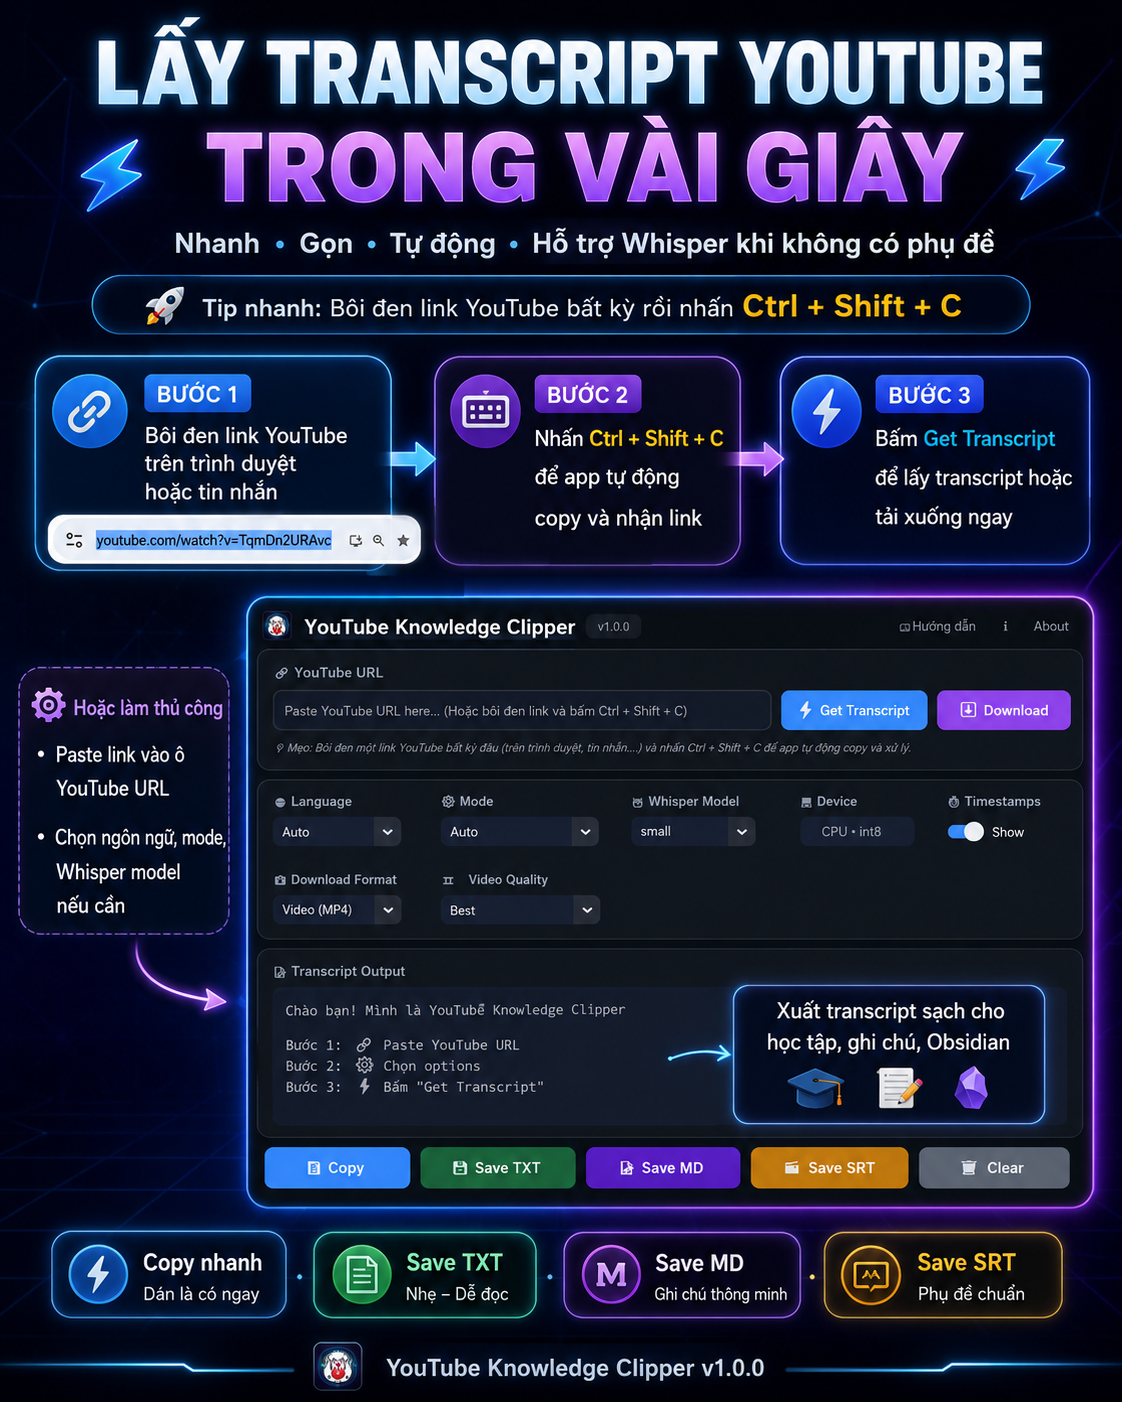
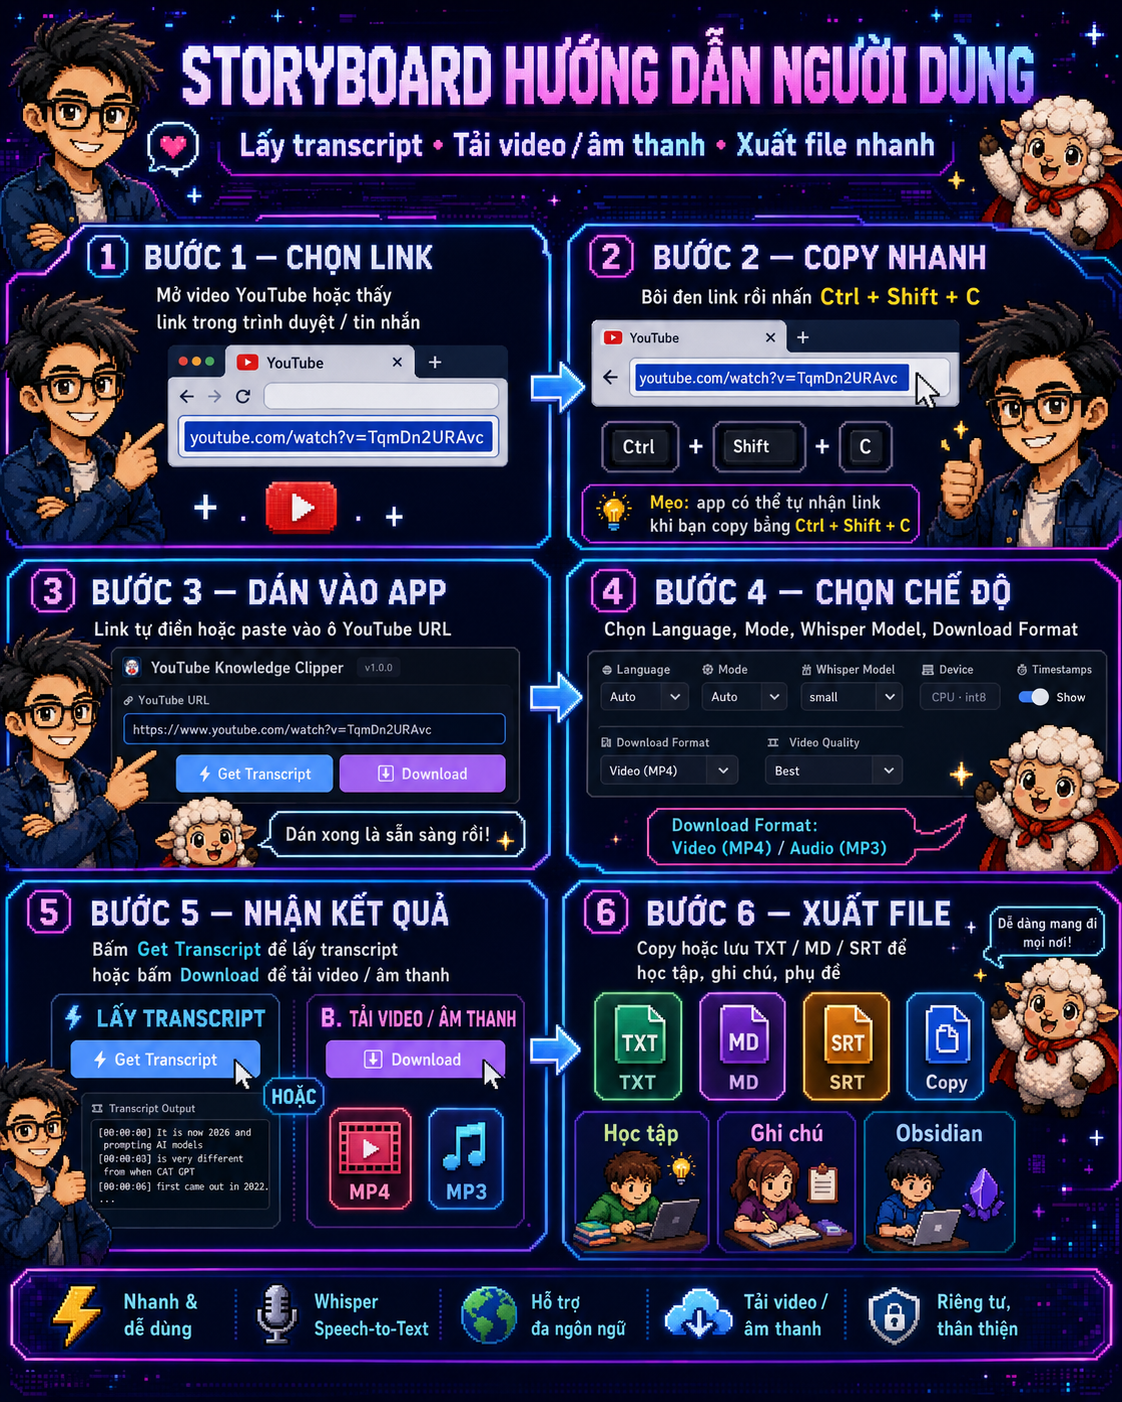
Add zoomable help image viewer

diff --git a/app.py b/app.py
@@ -677,20 +677,21 @@ class YouTubeKnowledgeClipperApp(ctk.CTk):
         close_btn.pack(pady=10)
 
     def _show_tutorial(self):
-        """Show tutorial dialog with image."""
+        """Show tutorial dialog with zoomable image."""
         tut_win = ctk.CTkToplevel(self)
         tut_win.title("Hướng dẫn sử dụng")
-        tut_win.geometry("700x550")
+        tut_win.geometry("880x650")
+        tut_win.minsize(640, 420)
         tut_win.attributes('-topmost', True)
         
         # Center the window
         self.update_idletasks()
-        x = self.winfo_x() + (self.winfo_width() - 700) // 2
-        y = self.winfo_y() + (self.winfo_height() - 550) // 2
+        x = self.winfo_x() + (self.winfo_width() - 880) // 2
+        y = self.winfo_y() + (self.winfo_height() - 650) // 2
         tut_win.geometry(f"+{x}+{y}")
         
         # Load image
-        from PIL import Image
+        from PIL import Image, ImageOps, ImageTk
         png_path = get_asset_path("help.png")
         jpg_path = get_asset_path("help.jpg")
         
@@ -702,13 +703,231 @@ class YouTubeKnowledgeClipperApp(ctk.CTk):
             
         if valid_path:
             try:
-                img = Image.open(str(valid_path))
-                # Resize while keeping aspect ratio, max 650x450
-                img.thumbnail((650, 450))
-                ctk_img = ctk.CTkImage(light_image=img, size=img.size)
-                
-                img_label = ctk.CTkLabel(tut_win, text="", image=ctk_img)
-                img_label.pack(pady=(20, 10), expand=True)
+                with Image.open(str(valid_path)) as source_img:
+                    original_img = ImageOps.exif_transpose(source_img).copy()
+
+                tut_win.grid_columnconfigure(0, weight=1)
+                tut_win.grid_rowconfigure(1, weight=1)
+
+                toolbar = ctk.CTkFrame(
+                    tut_win,
+                    fg_color=C_BG_CARD,
+                    corner_radius=10,
+                    border_width=1,
+                    border_color=C_BORDER,
+                )
+                toolbar.grid(row=0, column=0, sticky="ew", padx=16, pady=(16, 8))
+                toolbar.grid_columnconfigure(0, weight=1)
+
+                title_label = ctk.CTkLabel(
+                    toolbar,
+                    text="Ảnh hướng dẫn",
+                    font=ctk.CTkFont(size=13, weight="bold"),
+                    text_color=C_TEXT,
+                )
+                title_label.grid(row=0, column=0, sticky="w", padx=12, pady=10)
+
+                zoom_label = ctk.CTkLabel(
+                    toolbar,
+                    text="100%",
+                    width=56,
+                    text_color=C_TEXT_DIM,
+                )
+                zoom_label.grid(row=0, column=1, padx=(8, 4), pady=10)
+
+                viewer = ctk.CTkFrame(
+                    tut_win,
+                    fg_color=C_BG_INPUT,
+                    corner_radius=10,
+                    border_width=1,
+                    border_color=C_BORDER,
+                )
+                viewer.grid(row=1, column=0, sticky="nsew", padx=16, pady=(0, 16))
+                viewer.grid_columnconfigure(0, weight=1)
+                viewer.grid_rowconfigure(0, weight=1)
+
+                canvas = tk.Canvas(
+                    viewer,
+                    bg=C_BG_INPUT,
+                    highlightthickness=0,
+                    bd=0,
+                    xscrollincrement=20,
+                    yscrollincrement=20,
+                )
+                v_scroll = ctk.CTkScrollbar(viewer, orientation="vertical", command=canvas.yview)
+                h_scroll = ctk.CTkScrollbar(viewer, orientation="horizontal", command=canvas.xview)
+                canvas.configure(xscrollcommand=h_scroll.set, yscrollcommand=v_scroll.set)
+
+                canvas.grid(row=0, column=0, sticky="nsew", padx=(8, 0), pady=(8, 0))
+                v_scroll.grid(row=0, column=1, sticky="ns", padx=(4, 8), pady=(8, 0))
+                h_scroll.grid(row=1, column=0, sticky="ew", padx=(8, 0), pady=(4, 8))
+
+                state = {
+                    "scale": 1.0,
+                    "photo": None,
+                    "user_zoomed": False,
+                    "dragging": False,
+                }
+                tut_win._tutorial_image_state = state
+
+                resample = (
+                    Image.Resampling.LANCZOS
+                    if hasattr(Image, "Resampling")
+                    else Image.LANCZOS
+                )
+
+                def render_image():
+                    scale = state["scale"]
+                    width = max(1, int(original_img.width * scale))
+                    height = max(1, int(original_img.height * scale))
+                    display_img = original_img.resize((width, height), resample)
+
+                    state["photo"] = ImageTk.PhotoImage(display_img)
+                    canvas.delete("tutorial_image")
+
+                    canvas_width = max(canvas.winfo_width(), 1)
+                    canvas_height = max(canvas.winfo_height(), 1)
+                    image_x = max((canvas_width - width) // 2, 0)
+                    image_y = max((canvas_height - height) // 2, 0)
+
+                    canvas.create_image(
+                        image_x,
+                        image_y,
+                        anchor="nw",
+                        image=state["photo"],
+                        tags="tutorial_image",
+                    )
+                    canvas.configure(
+                        scrollregion=(
+                            0,
+                            0,
+                            max(width + image_x, canvas_width),
+                            max(height + image_y, canvas_height),
+                        )
+                    )
+                    zoom_label.configure(text=f"{int(scale * 100)}%")
+
+                def get_fit_scale():
+                    canvas.update_idletasks()
+                    canvas_width = max(canvas.winfo_width() - 16, 1)
+                    canvas_height = max(canvas.winfo_height() - 16, 1)
+                    return max(
+                        0.1,
+                        min(
+                            canvas_width / original_img.width,
+                            canvas_height / original_img.height,
+                            1.0,
+                        ),
+                    )
+
+                def set_zoom(scale: float, user_zoomed: bool = True):
+                    state["scale"] = max(0.1, min(scale, 5.0))
+                    state["user_zoomed"] = user_zoomed
+                    render_image()
+
+                def zoom_in():
+                    set_zoom(state["scale"] * 1.25)
+
+                def zoom_out():
+                    set_zoom(state["scale"] / 1.25)
+
+                def zoom_actual():
+                    set_zoom(1.0)
+
+                def zoom_fit():
+                    set_zoom(get_fit_scale(), user_zoomed=False)
+
+                def on_mousewheel(event):
+                    delta = getattr(event, "delta", 0)
+                    button = getattr(event, "num", None)
+
+                    if button == 4:
+                        delta = 120
+                    elif button == 5:
+                        delta = -120
+
+                    if delta > 0:
+                        zoom_in()
+                    elif delta < 0:
+                        zoom_out()
+                    return "break"
+
+                def start_pan(event):
+                    state["dragging"] = True
+                    canvas.scan_mark(event.x, event.y)
+                    canvas.configure(cursor="fleur")
+                    return "break"
+
+                def drag_pan(event):
+                    if state["dragging"]:
+                        canvas.scan_dragto(event.x, event.y, gain=1)
+                    return "break"
+
+                def end_pan(_event):
+                    state["dragging"] = False
+                    canvas.configure(cursor="")
+                    return "break"
+
+                def on_resize(_event):
+                    if not state["user_zoomed"]:
+                        state["scale"] = get_fit_scale()
+                    render_image()
+
+                zoom_out_btn = ctk.CTkButton(
+                    toolbar,
+                    text="-",
+                    width=36,
+                    command=zoom_out,
+                )
+                zoom_out_btn.grid(row=0, column=2, padx=4, pady=10)
+
+                zoom_in_btn = ctk.CTkButton(
+                    toolbar,
+                    text="+",
+                    width=36,
+                    command=zoom_in,
+                )
+                zoom_in_btn.grid(row=0, column=3, padx=4, pady=10)
+
+                actual_btn = ctk.CTkButton(
+                    toolbar,
+                    text="100%",
+                    width=64,
+                    command=zoom_actual,
+                )
+                actual_btn.grid(row=0, column=4, padx=4, pady=10)
+
+                fit_btn = ctk.CTkButton(
+                    toolbar,
+                    text="Fit",
+                    width=64,
+                    command=zoom_fit,
+                )
+                fit_btn.grid(row=0, column=5, padx=(4, 12), pady=10)
+
+                def bind_mousewheel(_event=None):
+                    canvas.focus_set()
+                    canvas.bind_all("<MouseWheel>", on_mousewheel)
+                    canvas.bind_all("<Button-4>", on_mousewheel)
+                    canvas.bind_all("<Button-5>", on_mousewheel)
+
+                def unbind_mousewheel(_event=None):
+                    canvas.unbind_all("<MouseWheel>")
+                    canvas.unbind_all("<Button-4>")
+                    canvas.unbind_all("<Button-5>")
+
+                def close_tutorial():
+                    unbind_mousewheel()
+                    tut_win.destroy()
+
+                canvas.bind("<Enter>", bind_mousewheel)
+                canvas.bind("<Leave>", unbind_mousewheel)
+                canvas.bind("<ButtonPress-2>", start_pan)
+                canvas.bind("<B2-Motion>", drag_pan)
+                canvas.bind("<ButtonRelease-2>", end_pan)
+                canvas.bind("<Configure>", on_resize)
+                tut_win.protocol("WM_DELETE_WINDOW", close_tutorial)
+                tut_win.after(100, zoom_fit)
             except Exception as e:
                 print(f"Failed to load {valid_path}: {e}")
                 ctk.CTkLabel(tut_win, text=f"Lỗi tải ảnh: {e}", text_color=C_TEXT).pack(expand=True)